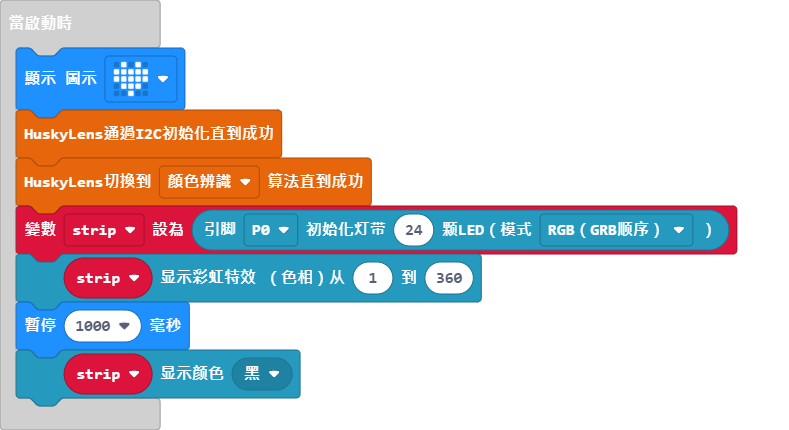
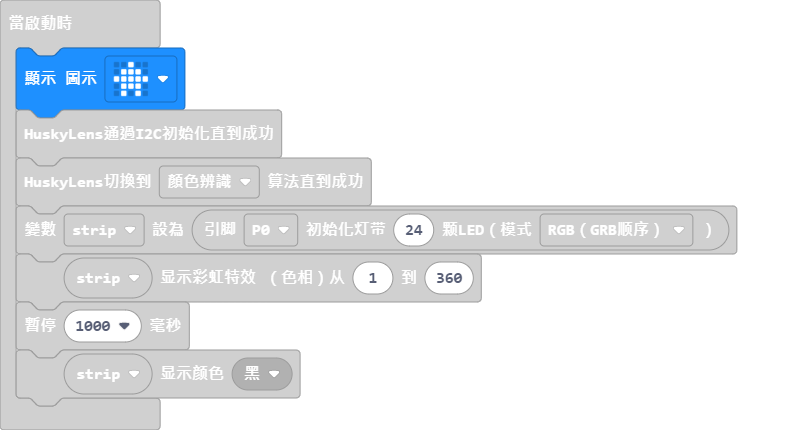
Change to a house label display.

Changed region(s): [[0.0, 0.2116, 0.943, 0.9674], [0.1217, 0.1209, 0.1825, 0.1814]]

diff --git a/main.ts b/main.ts
@@ -1,4 +1,4 @@
-basic.showIcon(IconNames.Heart)
+basic.showIcon(IconNames.House)
 huskylens.initI2c()
 huskylens.initMode(protocolAlgorithm.ALGORITHM_COLOR_RECOGNITION)
 let strip = neopixel.create(DigitalPin.P0, 24, NeoPixelMode.RGB)
